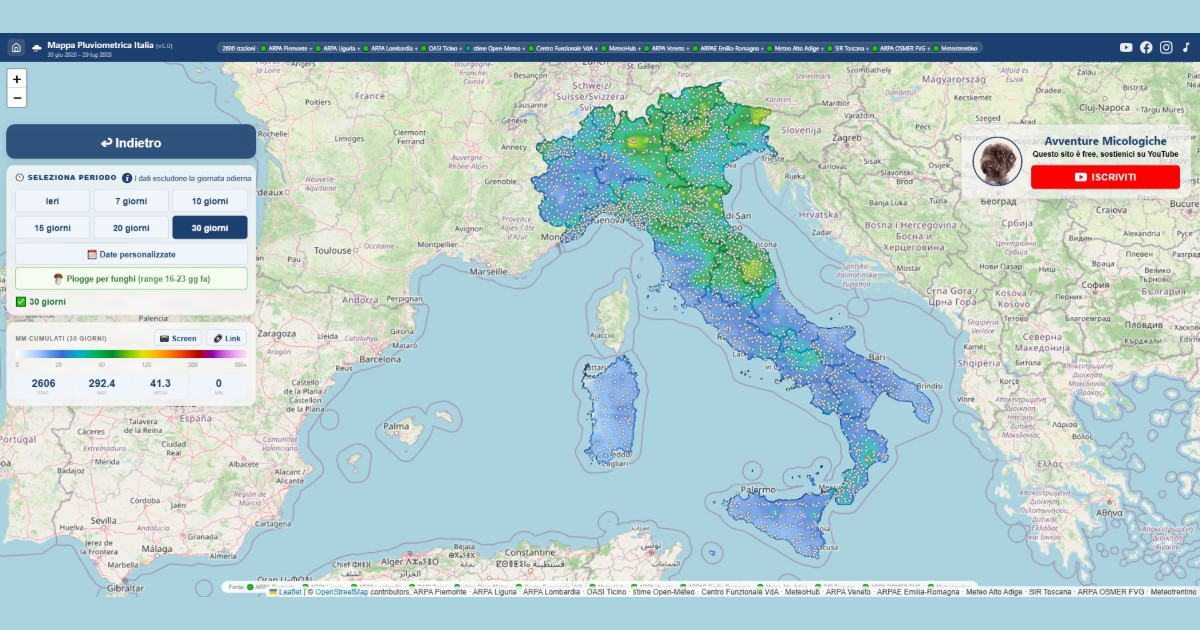
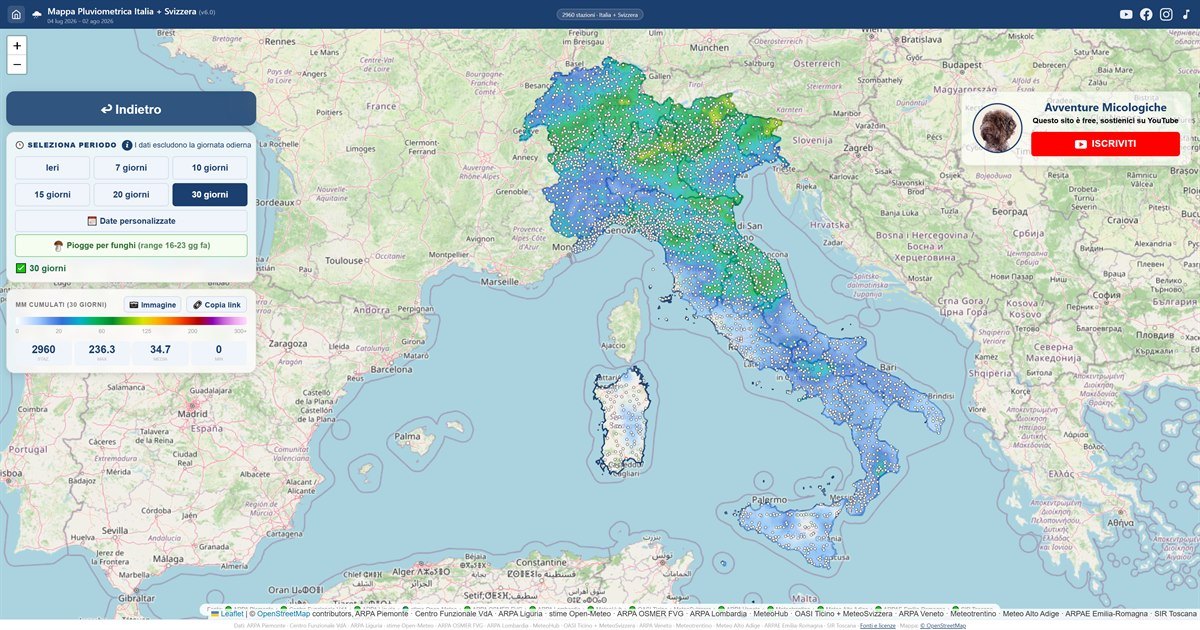
Anteprima social rifatta con la v6.0: Italia + Svizzera
preview.jpg 1200x630 da uno scatto headless in finestra 1920x1008 (gia' nel
rapporto 1.91:1 dei social: si scala e basta, niente taglio a destra che
mozzava il box del canale ne' fasce sopra/sotto come a luglio). 30 giorni,
2960 stazioni. ?v= a 20260803 per far riscaricare l'immagine ai social.

diff --git a/index.html b/index.html
@@ -21,20 +21,22 @@
   <meta name="description" content="Mappa interattiva delle precipitazioni in Italia e Svizzera con dati da stazioni meteo reali. Pianifica le tue uscite funghi.">
   <meta property="og:title" content="Mappa Pluviometrica Italia + Svizzera | Avventure Micologiche">
   <meta property="og:description" content="Mappa interattiva con dati meteo reali di Italia e Svizzera per pianificare ogni uscita. Trova le zone dove ha piovuto di più.">
-  <!-- Anteprima rifatta il 30 luglio 2026 (sera): ITALIA INTERA a 30 giorni,
-       tutte e 22 le regioni, 2606 stazioni, CON l'header del sito in cima —
-       scatto del tasto 📷 Screen dell'utente (1920x902, dopo il fix che
-       adatta la vista e include l'header), adattato in larghezza a 1200x630
-       con due fasce chiare sopra e sotto (colore campionato dal mare) per il
-       formato social 1.91:1. Ottenuta alzando temporaneamente in locale il
-       limite delle 3 regioni, con pallini stazione ridotti e campionamento
-       IDW disattivato (modifiche solo locali, ripristinate dopo lo scatto).
-       Il ?v= serve a far riscaricare l'immagine ai social, che la tengono in
-       cache per URL e altrimenti continuerebbero a mostrare la vecchia.
+  <!-- Anteprima rifatta il 3 agosto 2026 con la v6.0: ITALIA + SVIZZERA a 30
+       giorni, 22 regioni e la Svizzera intera, 2960 stazioni, con header e
+       pannelli. Ricetta: pagina locale usa-e-getta (copia dell'index con il
+       limite delle 3 regioni tolto, campionamento IDW disattivato, griglia
+       più fine, pallini stazione a raggio 2 — RIPRISTINI HOVER COMPRESI,
+       altrimenti ogni stazione sfiorata dal mouse resta grossa e sullo scatto
+       si vede la scia) fotografata da Chrome headless in finestra 1920x1008 a
+       doppia densità, cioè GIA' nel rapporto 1.91:1 dei social: si scala a
+       1200x630 e basta. La versione di luglio partiva da 1920x902 (2.13:1) e
+       serviva rattopparla — tagliando a destra si mozza il box del canale,
+       con le fasce sopra/sotto si perde spazio: molto meglio scattare già nel
+       formato giusto. Il ?v= serve a far riscaricare l'immagine ai social,
+       che la tengono in cache per URL e altrimenti mostrerebbero la vecchia.
        NB: nel repo di TEST l'URL punta al dominio di test (per provare
-       l'anteprima); qui in produzione è il dominio vero. Da rifare con
-       l'inquadratura Italia+Svizzera quando si aggiornano le grafiche v6. -->
-  <meta property="og:image" content="https://precipitazioni.avventuremicologiche.it/preview.jpg?v=20260801">
+       l'anteprima); in produzione è il dominio vero. -->
+  <meta property="og:image" content="https://precipitazioni.avventuremicologiche.it/preview.jpg?v=20260803">
   <meta property="og:image:width" content="1200">
   <meta property="og:image:height" content="630">
   <meta property="og:image:type" content="image/jpeg">
@@ -42,7 +44,7 @@
   <meta property="og:url" content="https://precipitazioni.avventuremicologiche.it">
   <meta property="og:type" content="website">
   <meta name="twitter:card" content="summary_large_image">
-  <meta name="twitter:image" content="https://precipitazioni.avventuremicologiche.it/preview.jpg?v=20260801">
+  <meta name="twitter:image" content="https://precipitazioni.avventuremicologiche.it/preview.jpg?v=20260803">
   <meta name="theme-color" content="#1b3f6e">
 <meta charset="UTF-8">
 <meta name="viewport" content="width=device-width, initial-scale=1.0">

diff --git a/CLAUDE.md b/CLAUDE.md
@@ -129,7 +129,7 @@ mobile con fallback centro/zoom per il centro-sud.
 - **Alias link condivisi:** `?r=ticino` apre la Svizzera (link pre-3/8 in circolazione)
 - **Respiro confini:** unico `confPulse` 1,6s per tutti, sincronia esatta via `startTime=0` in `aggiornaConfPulse` (senza, la fase dipende da quando ogni confine riceve la classe; controfase provata e scartata)
 - Sviluppato e validato lo stesso 3/8 nel repo di test (pilota), promosso in giornata su decisione utente. Il collector di test resta attivo (il sito di test legge `data/svizzera` dal proprio repo, come per VdA/Friuli)
-- **DA FARE con le grafiche v6**: rifare `preview.jpg` con l'inquadratura Italia+Svizzera (il commento nei meta lo ricorda)
+- **`preview.jpg` rifatta il 3/8** con Italia+Svizzera a 30 giorni (2960 stazioni): scatto headless in finestra **1920×1008** a doppia densità, cioè già nel rapporto 1.91:1 dei social — si scala a 1200×630 senza tagli né fasce. Ricetta completa nel commento sopra `og:image`. `?v=20260803`
 
 ### Ticino (Svizzera)
 - **Fonte:** OASI (Osservatorio Ambientale della Svizzera Italiana) `oasi.ti.ch/web/rest` — API REST pubblica, licenza libera con citazione fonte
